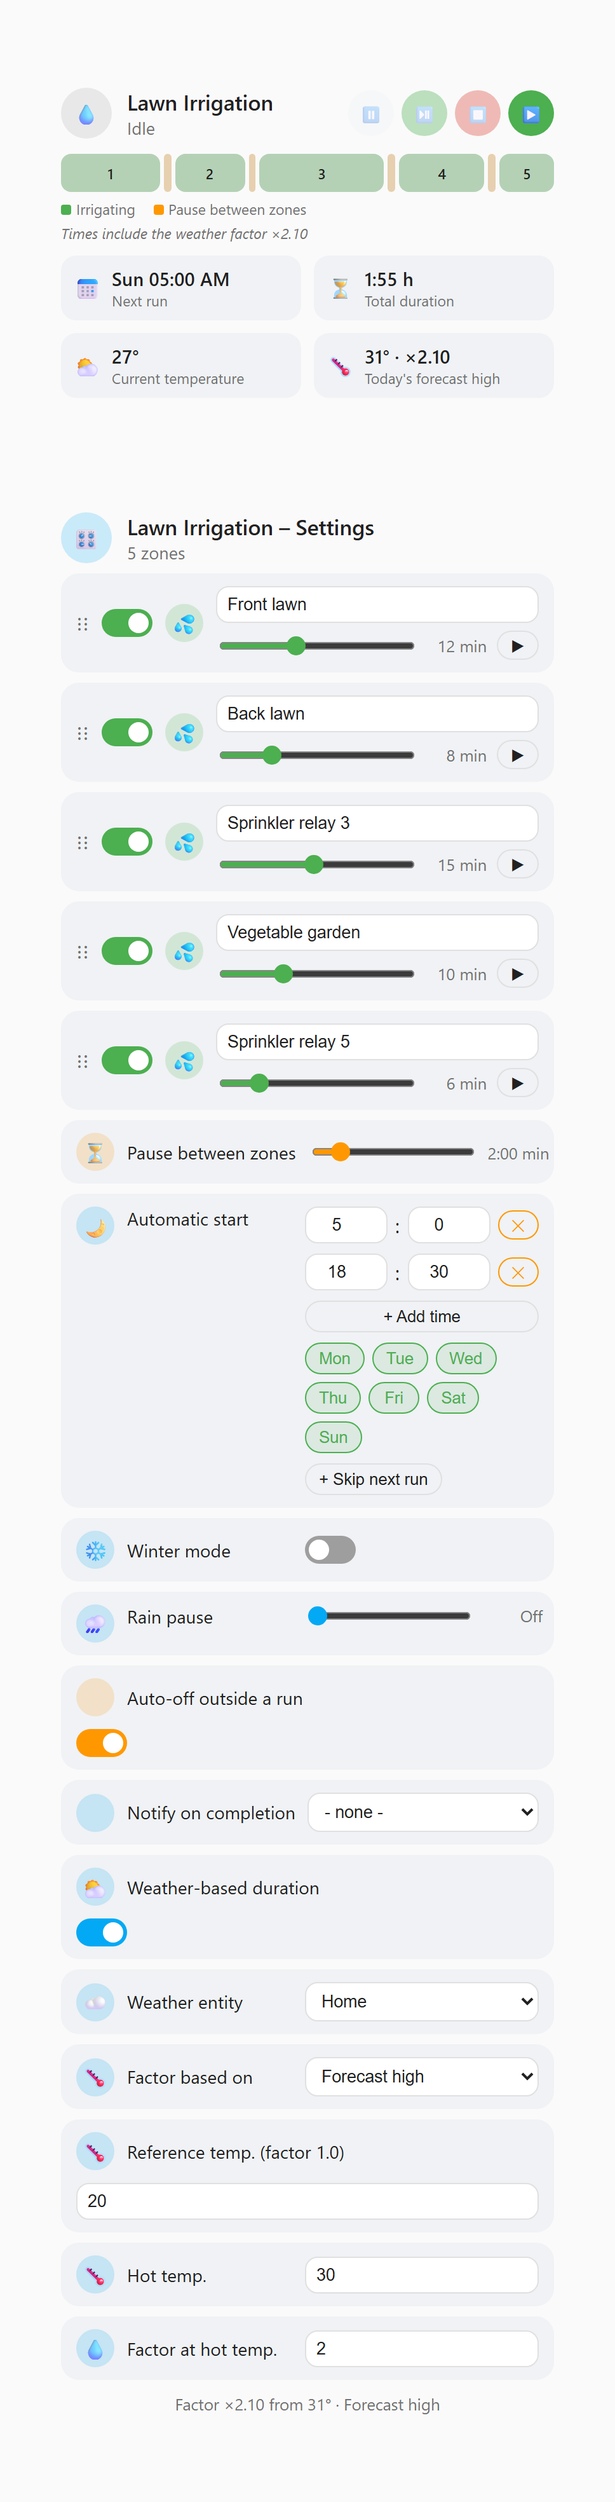
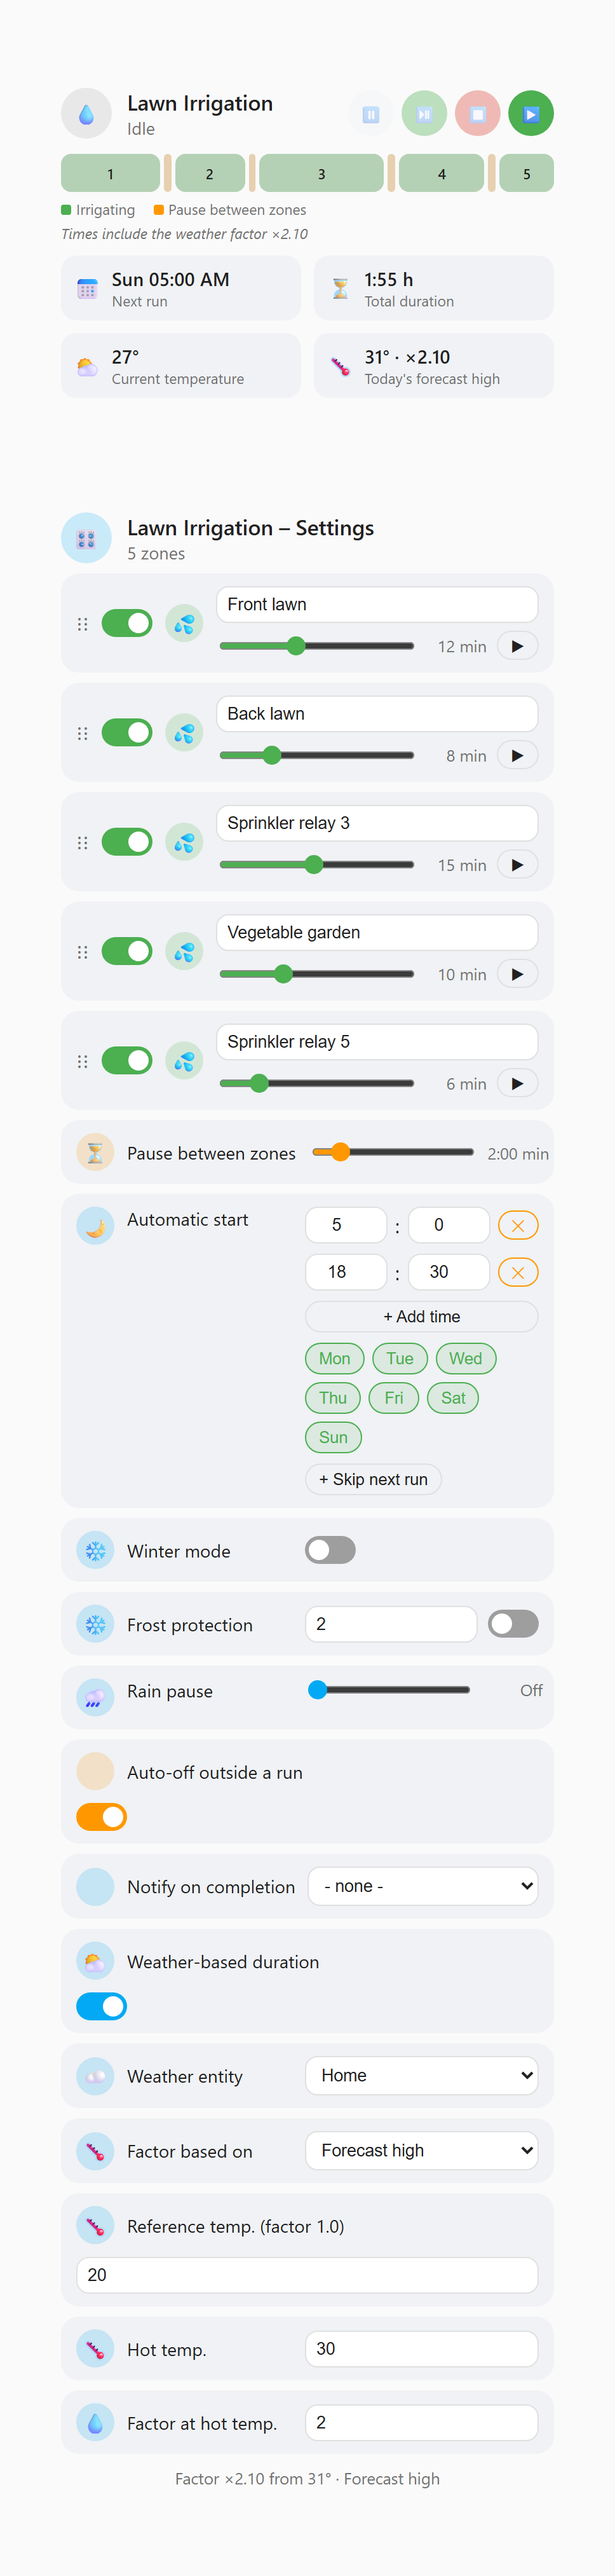
Docs (EN/DE), changelog and screenshots for v1.9.0 (#76, #77)

diff --git a/custom_components/irrigation_sequencer/frontend/irrigation-sequencer-card.js b/custom_components/irrigation_sequencer/frontend/irrigation-sequencer-card.js
@@ -22,7 +22,7 @@ const DEFAULT_ZONE_DURATION_MINUTES = 10;
 // browser console, whether an update actually took effect versus just
 // looking "the same" as before. Keep this in step with manifest.json's
 // "version" on every release.
-const CARD_VERSION = "1.8.0";
+const CARD_VERSION = "1.9.0";
 // eslint-disable-next-line no-console
 console.info(
   `%c IRRIGATION-SEQUENCER-CARD %c v${CARD_VERSION} `,

diff --git a/README.de.md b/README.de.md
@@ -50,6 +50,15 @@ im Browser ausprobieren kannst.*
   aussetzen (Gärtnerbesuch, Party auf dem Rasen) über die Settings-Card,
   die Skip-Button-Entität oder `irrigation_sequencer.skip_next_run` –
   danach automatisch vergessen, zurücknehmen mit `clear_skip_next_run`
+- **Frostschutz** – geplante Läufe optional blockieren, solange die
+  aktuelle Außentemperatur auf oder unter einem Schwellwert liegt
+  (Standard 2 °C) – der mildere, automatische Bruder des Wintermodus für
+  kalte Frühlings-/Herbstnächte. Blockiert nie ohne ablesbare Temperatur;
+  manuelle Starts gehen trotzdem.
+- **Lauf-Verlauf** – jeder beendete Lauf (fertig, abgebrochen, Test) wird
+  mit Startzeit, Auslöser, Wassersekunden und Wetterfaktor gespeichert –
+  die Status-Card zeigt die letzten Läufe, der volle Verlauf (30 Einträge)
+  steht im Sensor-Attribut für Templates und Automationen
 - **Sequenz mit fester Reihenfolge** – jede Zone wird nacheinander bewässert,
   die Reihenfolge lässt sich in der Settings-Card per Drag & Drop ändern
 - **Individuelle Dauer pro Zone** – jede Zone hat ihre eigene Bewässerungsdauer (Minuten)
@@ -265,6 +274,7 @@ eigene Automationen:
 | `irrigation_sequencer.set_run_weekdays` | Geplante Läufe auf Wochentage beschränken (Mo=1..So=7) |
 | `irrigation_sequencer.skip_next_run` | Nächsten geplanten Lauf einmal überspringen |
 | `irrigation_sequencer.clear_skip_next_run` | Vorgemerktes Überspringen zurücknehmen |
+| `irrigation_sequencer.set_frost_protection` | Geplante Läufe ab/unter Temperatur-Schwellwert blockieren |
 | `irrigation_sequencer.set_pause_between_zones` | Pause zwischen Zonen setzen |
 | `irrigation_sequencer.set_start_times` | Tägliche Startzeiten setzen (1–3) |
 | `irrigation_sequencer.set_rain_pause` | Regen-Pause für 1–24 Tage setzen |

diff --git a/README.md b/README.md
@@ -45,6 +45,14 @@ Home Assistant instance.*
   party on the lawn) via the settings card, the skip button entity, or
   `irrigation_sequencer.skip_next_run` - forgotten automatically after use,
   undo with `clear_skip_next_run`
+- **Frost protection** - optionally block scheduled runs while the current
+  outside temperature sits at or below a threshold (default 2 °C) - a
+  milder, automatic sibling of winter mode for cold spring/autumn nights.
+  Never blocks without a readable temperature; manual starts still work.
+- **Run history** - every finished run (completed, stopped, test) is
+  recorded with start time, trigger, watered seconds and weather factor -
+  the status card shows the recent runs, the full history (30 entries)
+  lives in the sensor attribute for templates and automations
 - **Sequential order** - each zone is irrigated one after another; the order
   can be changed by drag & drop directly in the settings card
 - **Per-zone duration** - every zone has its own irrigation duration (minutes)
@@ -243,6 +251,7 @@ automations:
 | `irrigation_sequencer.set_run_weekdays` | Restrict scheduled runs to selected weekdays (Mon=1..Sun=7) |
 | `irrigation_sequencer.skip_next_run` | Skip the upcoming scheduled run once |
 | `irrigation_sequencer.clear_skip_next_run` | Take back a pending one-shot skip |
+| `irrigation_sequencer.set_frost_protection` | Block scheduled runs at/below a temperature threshold |
 | `irrigation_sequencer.set_pause_between_zones` | Set the pause between zones |
 | `irrigation_sequencer.set_start_times` | Set the daily start times (1-3) |
 | `irrigation_sequencer.set_rain_pause` | Pause irrigation for 1-24 days |

diff --git a/CHANGELOG.md b/CHANGELOG.md
@@ -5,6 +5,27 @@ All notable changes to this project are documented here. Versioning follows
 `custom_components/irrigation_sequencer/manifest.json` and tagged as a
 GitHub release (`vX.Y.Z`) once pushed.
 
+## [1.9.0] - 2026-10-03
+
+- **Frost protection** (fixes
+  [#76](https://github.com/ReneSattler/ha-irrigation-sequencer/issues/76)):
+  optionally block scheduled runs while the weather entity's *current*
+  temperature sits at or below a threshold (default 2 °C, -10..10 °C
+  range) - a milder, automatic sibling of winter mode for cold
+  spring/autumn nights. Distinct `frost` status, `next_run` stays empty
+  while blocking, manual starts still work, and a missing/unavailable
+  temperature never blocks (fail open). New
+  `irrigation_sequencer.set_frost_protection` service, a frost switch
+  entity, and a settings-card switch plus threshold input.
+- **Run history** (fixes
+  [#77](https://github.com/ReneSattler/ha-irrigation-sequencer/issues/77)):
+  one persisted, capped (30 entries) record per finished run -
+  `started_at`, trigger (`schedule`/`manual`/`test`), zone count,
+  watered seconds, weather factor, `stopped_early`. Stopped and test
+  runs are kept too. New `run_history` sensor attribute plus a compact
+  recent-runs list on the status card; `last_run_zones` (per-zone detail
+  of the latest run) is unchanged.
+
 ## [1.8.0] - 2026-10-03
 
 - **Run weekdays** (fixes
